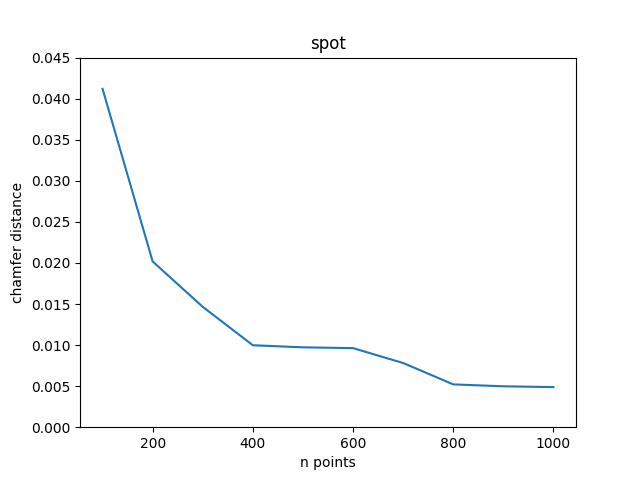
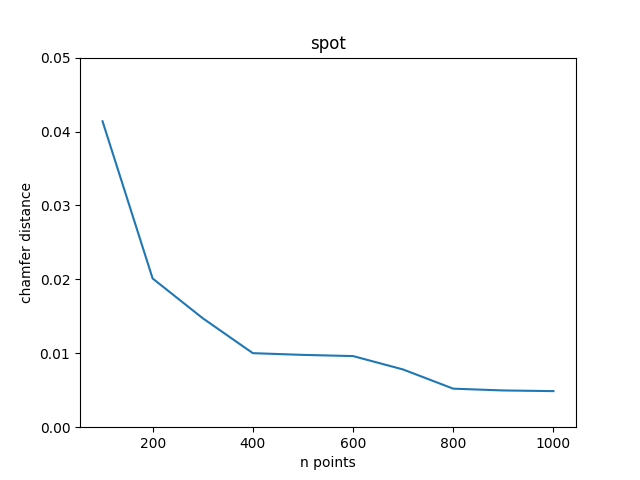
Swap rocker-arm with suzanne (#14)

diff --git a/steps_viz.py b/steps_viz.py
@@ -19,6 +19,8 @@ OBJECT_NAME = 'spot'
 original_mesh: Trimesh = ray_field.get_scaled_mesh(f'models/{OBJECT_NAME}.obj')
 transform: ndarray[float64] = trimesh.transformations.rotation_matrix(np.pi / 4.0, [0.0, 1.0, 0.0])
 original_mesh.apply_transform(transform)
+material = trimesh.visual.material.SimpleMaterial(diffuse=[0.5, 0.5, 0.5, 1.0])  # Blue color (RGBA)
+original_mesh.visual.material = material
 scene: Scene = trimesh.Scene([original_mesh])
 scene.show()
 

diff --git a/n_points_plot.py b/n_points_plot.py
@@ -17,7 +17,7 @@ OBJECT_NAME = 'spot'
 def plot_results(x: list[int], y: list[float]) -> None:
     fig, ax = plt.subplots()
     ax.plot(x, y)
-    ax.set_ylim([0, 0.045])
+    ax.set_ylim([0, 0.05])
     ax.set_ylabel('chamfer distance')
     ax.set_xlabel('n points')
     ax.set_title(OBJECT_NAME)
